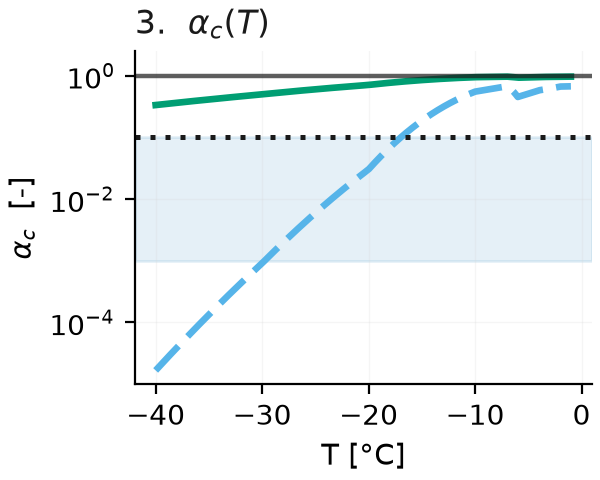
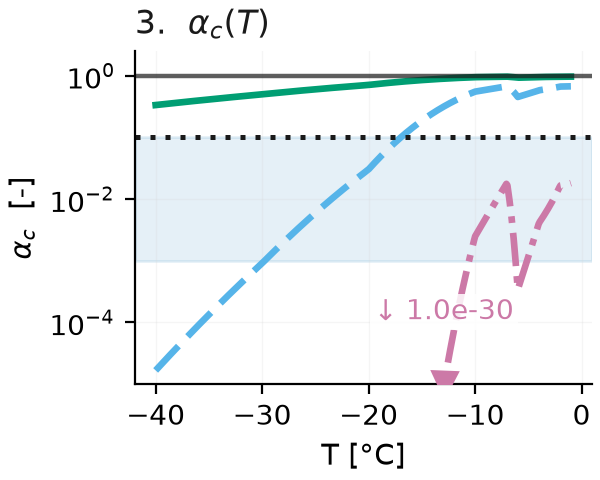
Add sigma = 1e-3, one decade below the chamber range
A third curve, with its own colour, its own dash-dot style and its own
"Extrapolated" legend group so it is never read as something Libbrecht
measured. The 4th field of SIGMA_CASES is now a group key that also picks
the linestyle, which kept every existing unpack site working.

It shows the trend continuing without resting the argument on conditions
anyone can dispute: alpha_c sits inside the literature band only over
-10.6 to -1 C, is on the 1e-30 floor by about -19, and the mesh reaches
Nx = 4.5e16 at -20 C and 2.6e32 at -40 C with eps twenty-six orders of
magnitude below a water molecule. Nx grows as exp(+sigma0/sigma); that is
the whole mechanism.

VIEW_NX bottom 4e2 -> 3e2, because the new curve bottoms out at 388 and
was producing a spurious off-scale marker at the warm end.

Also documented Lx where it is used rather than only where it is set, and
dropped a pronoun for Libbrecht that I had guessed at.

Claude-Session: https://claude.ai/code/session_01BVdmhQKeceS9YYRoWfp7Wf

diff --git a/projects/enceladus_DSM/preprocess/plot_libbrecht_constraints.py b/projects/enceladus_DSM/preprocess/plot_libbrecht_constraints.py
@@ -20,7 +20,7 @@ The chain is short and every link is plotted:
                ->  eps <= d0/(beta_sub*v_n)      ->  Nx = ceil(sqrt(2)*Lx/eps)
 
 The case is made ENTIRELY INSIDE LIBBRECHT'S OWN CALIBRATION RANGE. Only the
-two supersaturations his chamber experiments were run at, sigma = 1e-1 and
+two supersaturations the chamber experiments were run at, sigma = 1e-1 and
 1e-2, are plotted. Nothing here depends on the conditions of any one of our
 simulations, so nothing here can be answered with "your boundary condition is
 wrong".
@@ -29,8 +29,8 @@ wrong".
    the literature supports is 1e-3 < alpha_c < 1e-1 (Libbrecht 2017; Braun,
    Fourteau & Lowe 2024). Evaluate (L1) at Libbrecht's OWN upper chamber
    condition, sigma = 1e-1, and it returns alpha_c = 0.33 to 0.96 across
-   -40..-1 C -- three to ten times ABOVE the band's ceiling. Evaluate it at his
-   own lower one, sigma = 1e-2, and it drops BELOW the band's floor colder than
+   -40..-1 C -- three to ten times ABOVE the band's ceiling. Evaluate it at the
+   lower one, sigma = 1e-2, and it drops BELOW the band's floor colder than
    -29.7 C. That is structural, not a tuning problem: sigma0 spans a factor 27
    over -2..-40 C and it sits in the exponent, so no single reference sigma
    holds alpha_c inside one decade across the range.
@@ -130,17 +130,28 @@ BOUND_LABEL = {
 # What remains is the honest general statement: evaluate Libbrecht's own law at
 # Libbrecht's own conditions and follow sigma0(T) down in temperature.
 #
-# Value, colour, label, linestyle key.
+# sigma = 1e-3 is one plain decade below the chamber range -- no experiment
+# attached to it, which is the point. It shows the trend continuing without
+# resting the case on conditions anyone can dispute; the legend keeps it in its
+# own group so nobody reads it as something Libbrecht measured.
+#
+# Value, colour, label, group key (which also picks the linestyle).
 SIGMA_CASES = [
-    (1.0e-1, C[2], "$\\sigma = 10^{-1}$", "solid"),
-    (1.0e-2, C[5], "$\\sigma = 10^{-2}$", "dashed"),
+    (1.0e-1, C[2], "$\\sigma = 10^{-1}$", "chamber_hi"),
+    (1.0e-2, C[5], "$\\sigma = 10^{-2}$", "chamber_lo"),
+    (1.0e-3, C[3], "$\\sigma = 10^{-3}$", "extrap"),
 ]
+_LS = {"chamber_hi": "-",
+       "chamber_lo": (0, (5, 2)),
+       "extrap": (0, (5, 1.5, 1, 1.5))}
 
 # Legend group headings.
 GRP_LAB = "Libbrecht's chamber"
+GRP_EXTRAP = "Extrapolated"
 GRP_BIND = "Which bound binds"
 GRP_REF = "Reference"
-SIG_LAB = [l for _v, _c, l, _k in SIGMA_CASES]
+SIG_LAB = [l for _v, _c, l, k in SIGMA_CASES if k.startswith("chamber")]
+SIG_EXTRAP = [l for _v, _c, l, k in SIGMA_CASES if k == "extrap"]
 
 # a = (m/rho_ice)^(1/3): the molecular length already implied by the constants
 # in comp_eps.py. Below it a continuum phase field means nothing.
@@ -206,7 +217,7 @@ VIEW_BETA = (1.0e3, MF_BETA_HI * 1e2)   # trimmed: nothing runs below 1e3
 # Mesh window, in Nx. NX_USABLE is what we can actually run; the frame is
 # opened up ~2.3 decades above it so the molecular limit Lx/a stays visible.
 NX_USABLE = 1.0e4
-VIEW_NX = (4.0e2, 1.0e6)
+VIEW_NX = (3.0e2, 1.0e6)
 
 
 def _mark_offscale(a, x, y, color, fmt="{:.1e}", row=0):
@@ -338,6 +349,7 @@ def master_groups(ctx):
     """
     return [
         (GRP_LAB, SIG_LAB),
+        (GRP_EXTRAP, SIG_EXTRAP),
         (GRP_BIND, [BOUND_LABEL["B-KINETIC"], BOUND_LABEL["B-HEAT"]]),
         (GRP_REF, ["$\\alpha_c = 1$  physical ceiling",
                    "$N_x = 10^4$  practical ceiling",
@@ -361,8 +373,8 @@ def _legend(a, groups, y=-0.165):
 
 
 def _ls(kind):
-    """Line style, so the two sigmas are never told apart by colour alone."""
-    return "-" if kind == "solid" else (0, (5, 2))
+    """Line style, so the sigmas are never told apart by colour alone."""
+    return _LS[kind]
 
 
 def _sig_tex(v):
@@ -439,7 +451,7 @@ def panel_alpha_vs_sigma0(a, T, ctx):
     _style(a, "$\\sigma_0(T)$  [-]", "$\\alpha_c$  [-]",
            "2.  $\\alpha_c = \\exp(-\\sigma_0/\\sigma)$ against $\\sigma_0$",
            short="2.  $\\alpha_c$ against $\\sigma_0$")
-    _legend(a, [(GRP_LAB, SIG_LAB),
+    _legend(a, [(GRP_LAB, SIG_LAB), (GRP_EXTRAP, SIG_EXTRAP),
                 (GRP_REF, ["$\\alpha_c = 1$  physical ceiling"])])
 
 
@@ -461,7 +473,7 @@ def panel_alpha_vs_T(a, T, ctx):
     _style(a, "T [°C]", "$\\alpha_c$  [-]",
            "3.  $\\alpha_c(T)$: two decades down in $\\sigma$, "
            "thirty down in $\\alpha_c$", short="3.  $\\alpha_c(T)$")
-    _legend(a, [(GRP_LAB, SIG_LAB),
+    _legend(a, [(GRP_LAB, SIG_LAB), (GRP_EXTRAP, SIG_EXTRAP),
                 (GRP_REF, ["$\\alpha_c = 1$  physical ceiling", run])])
 
 
@@ -485,7 +497,7 @@ def panel_beta_vs_T(a, T, ctx):
            r"\alpha_c=\exp\left[-\sigma_0(T)/\sigma\right]$",
            title_size=13, pad=14,
            short="4.  $\\beta_{sub}(T) \\propto 1/\\alpha_c$")
-    _legend(a, [(GRP_LAB, SIG_LAB),
+    _legend(a, [(GRP_LAB, SIG_LAB), (GRP_EXTRAP, SIG_EXTRAP),
                 (GRP_REF, ["M&F (2024) Table S1", run])])
 
 
@@ -510,7 +522,7 @@ def panel_eps_vs_T(a, T, ctx):
            f"(shading follows $\\sigma = {_sig_tex(prim)}$)",
            short="5.  Interface width $\\epsilon(T)$")
     _legend(a, [(GRP_BIND, [BOUND_LABEL["B-KINETIC"], BOUND_LABEL["B-HEAT"]]),
-                (GRP_LAB, SIG_LAB),
+                (GRP_LAB, SIG_LAB), (GRP_EXTRAP, SIG_EXTRAP),
                 (GRP_REF, [ceil, run])])
 
 
@@ -531,7 +543,7 @@ def panel_Nx_vs_T(a, T, ctx):
            "6.  The mesh Libbrecht's $\\alpha_c$ demands",
            short="6.  Mesh $N_x(T)$", short_y="$N_x$")
     _legend(a, [(GRP_BIND, [BOUND_LABEL["B-KINETIC"], BOUND_LABEL["B-HEAT"]]),
-                (GRP_LAB, SIG_LAB),
+                (GRP_LAB, SIG_LAB), (GRP_EXTRAP, SIG_EXTRAP),
                 (GRP_REF, ["$N_x = 10^4$  practical ceiling", run])])
 
 
@@ -620,9 +632,14 @@ def main():
     p = argparse.ArgumentParser(description=__doc__,
                                 formatter_class=argparse.RawDescriptionHelpFormatter)
     # Geometry: Molaro dom2, the production axisymmetric grain pair.
-    p.add_argument("--Lx", type=float, default=4.50e-4)
-    p.add_argument("--Ly", type=float, default=2.25e-4)
-    p.add_argument("--Rave", type=float, default=8.675e-5)
+    # Reference-case geometry: the Molaro dom2 production domain,
+    # inputs/geometry/molaro/molaro_2D_L450x225um_..._dom2.opts. Lx enters only
+    # as Nx = ceil(sqrt(2)*Lx/eps), i.e. LINEARLY -- it sets where the vertical
+    # axis of panel 6 sits, not the shape of any curve on it.
+    p.add_argument("--Lx", type=float, default=4.50e-4, help="domain x [m]")
+    p.add_argument("--Ly", type=float, default=2.25e-4, help="domain y [m]")
+    p.add_argument("--Rave", type=float, default=8.675e-5,
+                   help="representative grain radius [m], for B-CURV")
     p.add_argument("--vn", type=float, default=3.415598e-9,
                    help="MEASURED front velocity [m/s]; default is the "
                         "integrated Molaro Fig. 11 neck rate from "

diff --git a/projects/enceladus_DSM/studies/libbrecht_kinetics/README.md b/projects/enceladus_DSM/studies/libbrecht_kinetics/README.md
@@ -17,13 +17,17 @@ does not work here, regenerated against the *current* `preprocess/comp_eps.py`
 python preprocess/plot_libbrecht_constraints.py --out studies/libbrecht_kinetics
 ```
 
-The **argument** uses only Libbrecht's own chamber supersaturations. The
-**reference case** — needed because Eq. (45) wants a front velocity and $N_x$
-wants a domain — defaults to a $450 \times 225\ \mu$m grain pair
-($R_{ave} = 86.75\ \mu$m) at the measured front velocity
+The **argument** uses Libbrecht's own chamber supersaturations, plus one plain
+decade below them. The **reference case** — needed because Eq. (45) wants a
+front velocity and $N_x$ wants a domain — defaults to the Molaro dom2
+production domain, $L_x \times L_y = 450 \times 225\ \mu$m
+($R_{ave} = 86.75\ \mu$m), at the measured front velocity
 $v_n = 3.416\times10^{-9}$ m/s, the integrated Fig. 11 neck-growth rate from
 `studies/molaro_2019/alpha_c_estimate.csv`. It sets the scale of the vertical
-axes, not the conclusion. Every $\epsilon$ and every mesh count comes from
+axes, not the conclusion — $L_x$ enters only as
+$N_x = \lceil \sqrt{2}L_x/\epsilon \rceil$, i.e. *linearly*, so halving or
+doubling the domain slides panel 6 up or down without changing the shape of
+anything on it. Every $\epsilon$ and every mesh count comes from
 `comp_eps.compute_eps()` itself, so these plots cannot drift from what the
 sizer does.
 
@@ -81,23 +85,28 @@ that is the only place they share a legend.
 > the image is simply 200 dpi at that size. `--dpi 96` produces drop-in sizing
 > instead, at some cost in sharpness on a projector.
 
-**Only Libbrecht's own chamber conditions are plotted** — $\sigma = 10^{-1}$
-(solid) and $\sigma = 10^{-2}$ (dashed). Nothing here depends on the conditions
-of one of our simulations, so nothing here can be answered with "your boundary
-condition is wrong". See *What is deliberately not plotted*, below.
+**The case rests on Libbrecht's own chamber conditions**, $\sigma = 10^{-1}$
+(solid) and $\sigma = 10^{-2}$ (dashed). A third curve, $\sigma = 10^{-3}$
+(dash-dot), is one plain decade below that range — no experiment attached to it,
+which is the point. It shows the trend continuing without resting the argument
+on conditions anyone can dispute, and the legend keeps it in its own
+**Extrapolated** group so it is never read as something Libbrecht measured. See
+*What is deliberately not plotted*, below.
 
 ## The argument, in three steps
 
 **1. The law cannot sit inside the literature band at any one σ.** The band the
 literature supports is $10^{-3} < \alpha_c < 10^{-1}$ (Libbrecht 2017; Braun,
 Fourteau & Löwe 2024). Evaluate $\alpha_c = \exp(-\sigma_0/\sigma)$ at
-Libbrecht's *own upper* chamber condition and it overshoots; at his *own lower*
-one it undershoots, once it is cold enough:
+Libbrecht's *own upper* chamber condition and it overshoots; at the lower one
+it undershoots once it is cold enough — and one plain decade below the
+chamber range it collapses:
 
 | $\sigma$ | $\alpha_c$ at −1 °C | at −20 °C | at −40 °C | vs. the band |
 |---|---|---|---|---|
 | $10^{-1}$ | 0.96 | 0.71 | 0.33 | 3–10× **above** the ceiling, everywhere |
 | $10^{-2}$ | 0.67 | 3.1e-2 | 1.7e-5 | **below** the floor colder than −29.7 °C |
+| $10^{-3}$ | 1.8e-2 | 6.3e-16 | 1e-30 (floor) | inside only over −10.6…−1 °C |
 
 That is structural, not a tuning problem. $\sigma_0$ spans a factor 27 over
 −2 to −40 °C and it sits in the *exponent*, so no single reference $\sigma$
@@ -121,6 +130,11 @@ asks for an $\epsilon$ an **eighth of a water molecule** and eleven times more
 nodes than the domain has molecules. It has passed $N_x = 10^4$ by −25 °C.
 That is not an expensive mesh; it is a category error, because the continuum
 phase field has no meaning below $a$.
+
+One decade lower, at $\sigma = 10^{-3}$, the same chain gives $N_x = 4.5\times
+10^{16}$ at −20 °C and $2.6\times10^{32}$ at −40 °C, with $\epsilon$ twenty-six
+orders of magnitude below a water molecule. The exponent is doing all of this:
+$N_x \propto \exp(+\sigma_0/\sigma)$.
 
 **3. It is the wrong experiment for our problem.** Libbrecht grew single ice
 crystals from vapour in a near-vacuum chamber. That isolates any dependence

diff --git a/projects/enceladus_DSM/.claude/ACTIVITY_LOG.md b/projects/enceladus_DSM/.claude/ACTIVITY_LOG.md
@@ -1,3 +1,27 @@
+## 2026-09-02 (final, 8) — Added sigma = 1e-3
+
+- Jackson asked for a third curve at sigma = 1e-3, one plain decade below
+  Libbrecht's chamber range. Added with its own colour (C[3] pink) and its own
+  linestyle (dash-dot), and -- importantly -- its own legend group,
+  "Extrapolated", so it is never read as something Libbrecht measured. The
+  4th field of SIGMA_CASES is now a group key that also selects the linestyle,
+  which kept every existing 4-tuple unpack site working.
+- What it shows: alpha_c sits inside the literature band only over -10.6..-1 C,
+  and is on the 1e-30 floor by about -19. Nx = 4.5e16 at -20 C and 2.6e32 at
+  -40 C, with eps 26 orders of magnitude below a water molecule. Nx grows as
+  exp(+sigma0/sigma), and that is the whole mechanism.
+- VIEW_NX bottom 4e2 -> 3e2: the new curve's minimum is 388, and at 4e2 it was
+  producing a spurious off-scale marker at the warm end.
+- Documented Lx: it is 4.50e-4 m, the x-extent of the Molaro dom2 production
+  domain (inputs/geometry/molaro/..._L450x225um_..._dom2.opts). It enters only
+  as Nx = ceil(sqrt(2)*Lx/eps), i.e. linearly, so it fixes where panel 6's
+  axis sits and not the shape of anything on it. Said so in the CLI help and
+  the README.
+- Dropped a pronoun for Libbrecht from the docstring and README: their
+  pronouns are not stated in anything I have, and "his" was a guess.
+
+---
+
 ## 2026-09-02 (final, 7) — Per-panel legends
 
 - Jackson: each individual plot needs a legend, inline or separate. Added
